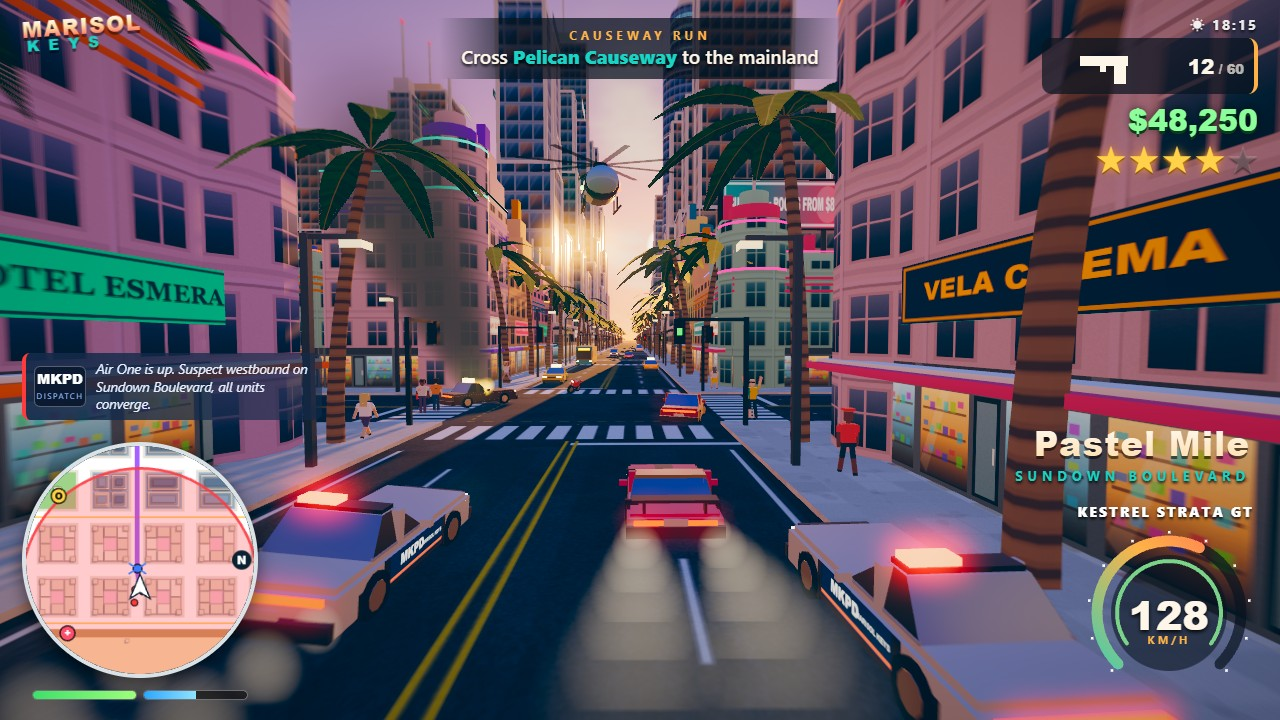
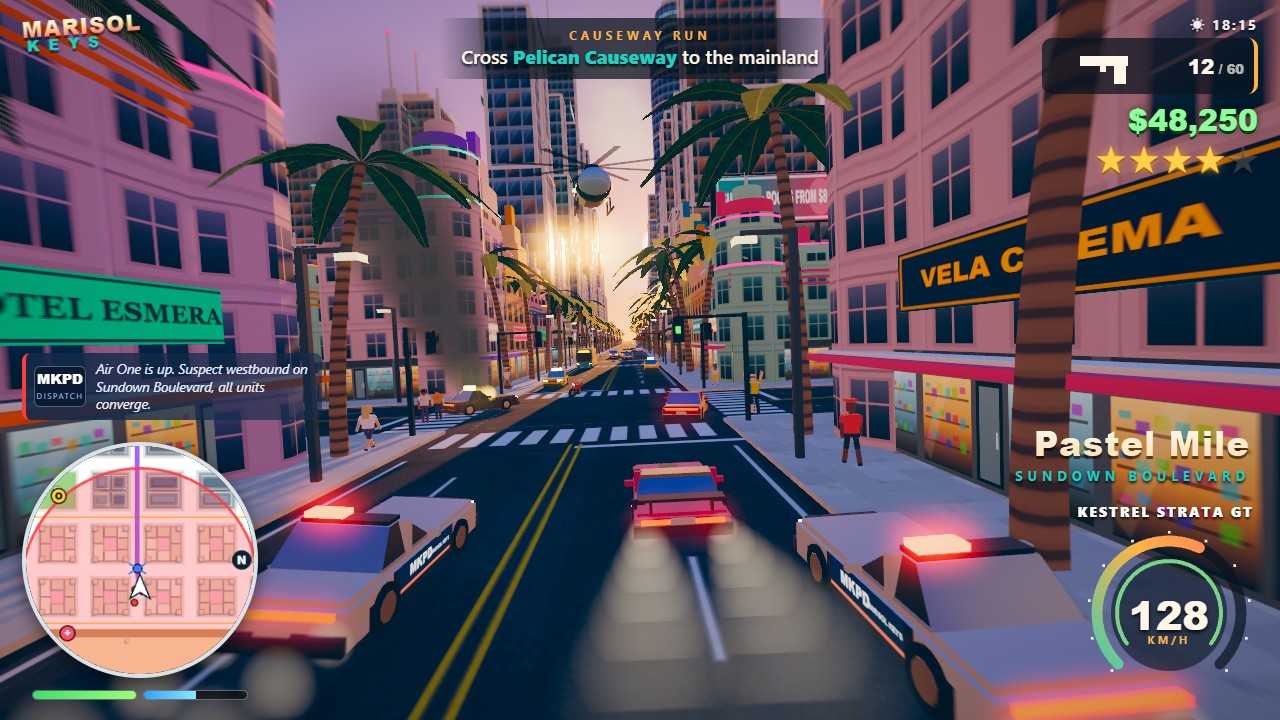
Cover gets a slight dutch tilt; fixed cameras support roll

diff --git a/game/src/shots/shotScenes.js b/game/src/shots/shotScenes.js
@@ -129,7 +129,7 @@ export const SCENES = {
       game.fx.particles.update(0.05);
       game.hud.showDistrict({ name: 'Pastel Mile', sub: 'SUNDOWN BOULEVARD' });
       game.dispatch.show('Air One is up. Suspect westbound on Sundown Boulevard, all units converge.');
-      return { pos: new THREE.Vector3(p.pos.x + 12.5, 4.3, p.pos.z + 0.9), look: new THREE.Vector3(p.pos.x - 30, 2.6, p.pos.z + 0.2) };
+      return { pos: new THREE.Vector3(p.pos.x + 12.5, 4.3, p.pos.z + 0.9), look: new THREE.Vector3(p.pos.x - 30, 2.6, p.pos.z + 0.2), roll: -0.045 };
     },
   },
 

diff --git a/game/src/camera/gameCamera.js b/game/src/camera/gameCamera.js
@@ -38,6 +38,7 @@ export class GameCamera {
     if (this.fixed) {
       this.cam.position.copy(this.fixed.pos);
       this.cam.lookAt(this.fixed.look);
+      if (this.fixed.roll) this.cam.rotateZ(this.fixed.roll); // a dutch tilt for action scenes
       return;
     }
     if (m.dx || m.dy) this.lastMouse = time;
